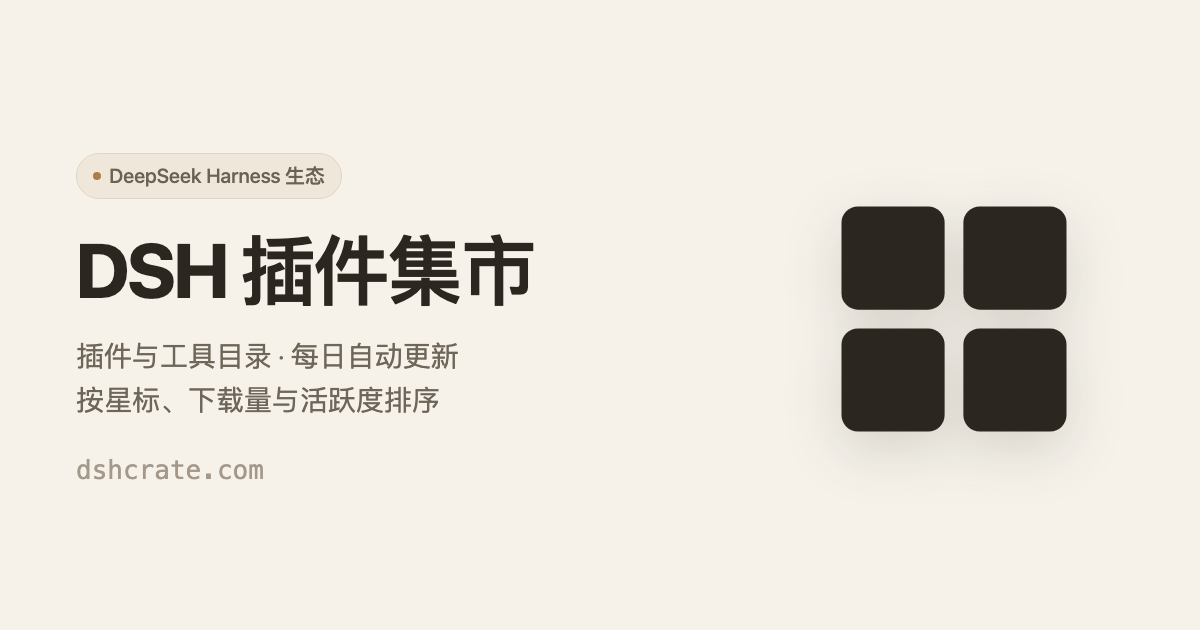
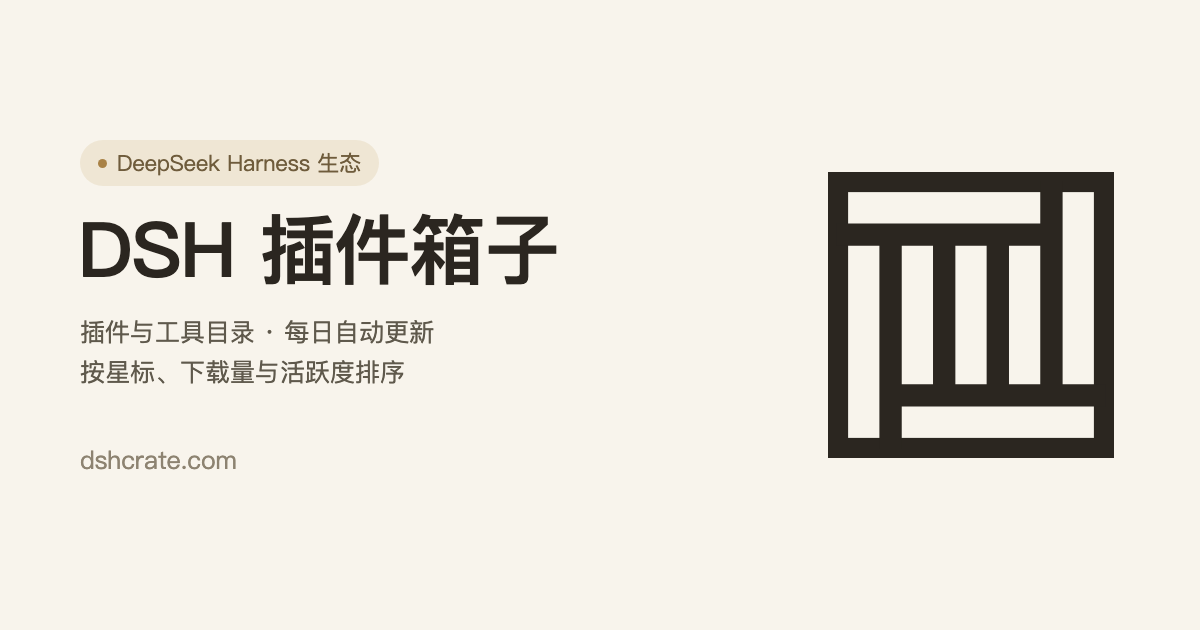
feat: 站点更名为「DSH 插件箱子」
站点配置、页面 title/meta、SEO 描述、三处中英文案与 README 全部从「插件集市」
改为「插件箱子」；og 图重绘为新名字 + 线条箱子标记，收录量改为 4 万+。

diff --git a/packages/web/index.html b/packages/web/index.html
@@ -3,21 +3,21 @@
   <head>
     <meta charset="UTF-8" />
     <meta name="viewport" content="width=device-width, initial-scale=1.0" />
-    <title>DSH 插件集市</title>
-    <meta name="description" content="DeepSeek Harness 插件集市 —— 按星标与更新活跃度排序，一页看清哪个插件值得装。" />
+    <title>DSH 插件箱子</title>
+    <meta name="description" content="DeepSeek Harness 插件箱子 —— 按星标与更新活跃度排序，一页看清哪个插件值得装。" />
     <!-- canonical 由各页 useSeo 在渲染后写入：所有路由共用同一份 HTML，静态写死会指错页面 -->
     <meta property="og:type" content="website" />
-    <meta property="og:site_name" content="DSH 插件集市" />
-    <meta property="og:title" content="DSH 插件集市 · 收录 20000+ 个 DeepSeek Harness 插件" />
+    <meta property="og:site_name" content="DSH 插件箱子" />
+    <meta property="og:title" content="DSH 插件箱子 · 收录 4 万+ 个 DeepSeek Harness 插件" />
     <meta property="og:description" content="按星标、下载量与更新活跃度排序，支持分类筛选与全文搜索，每日自动刷新。" />
     <meta property="og:url" content="https://dshcrate.com/" />
     <meta property="og:image" content="https://dshcrate.com/og.png" />
     <meta property="og:image:width" content="1200" />
     <meta property="og:image:height" content="630" />
-    <meta property="og:image:alt" content="DSH 插件集市：DeepSeek Harness 插件与工具目录" />
+    <meta property="og:image:alt" content="DSH 插件箱子：DeepSeek Harness 插件与工具目录" />
     <meta name="twitter:card" content="summary_large_image" />
-    <meta name="twitter:title" content="DSH 插件集市" />
-    <meta name="twitter:description" content="收录 20000+ 个 DeepSeek Harness 插件，按星标与活跃度排序，每日自动刷新。" />
+    <meta name="twitter:title" content="DSH 插件箱子" />
+    <meta name="twitter:description" content="收录 4 万+ 个 DeepSeek Harness 插件，按星标与活跃度排序，每日自动刷新。" />
     <meta name="twitter:image" content="https://dshcrate.com/og.png" />
     <meta name="theme-color" content="#f7f7f5" />
     <!-- 首屏先按本地偏好落一次主题与语言，深色用户不会看到白闪 -->

diff --git a/packages/web/src/lib/i18n.ts b/packages/web/src/lib/i18n.ts
@@ -56,13 +56,13 @@ const ZH = {
   "theme.system": "跟随系统",
   "lang.label": "语言",
 
-  "home.title.plugins": "把 DSH 生态的插件收进一个集市",
+  "home.title.plugins": "把 DSH 生态的插件收进一个箱子",
   "home.title.tools": "顺手的独立工具，也一起收了",
   "home.sub.plugins": "按星标与更新活跃度排序，一页看清哪个插件值得装",
   "home.sub.tools": "只收上游 README 写明安装命令、且不属于 DSH 插件的项目，命令直接取自仓库。",
-  "home.install.title": "在 DSH 里装插件市场",
+  "home.install.title": "在 DSH 里装插件箱子",
   "home.install.note": "web / tui 是 DSH 自带 profile，首次使用自动初始化",
-  "home.install.aria": "复制插件市场安装命令",
+  "home.install.aria": "复制插件箱子安装命令",
   "home.search.plugins": "搜索插件名、作者或功能关键词…",
   "home.search.tools": "搜索工具名、作者或用途关键词…",
   "home.searchAria.plugins": "搜索插件",
@@ -376,13 +376,13 @@ const EN: Record<TKey, string> = {
   "theme.system": "System",
   "lang.label": "Language",
 
-  "home.title.plugins": "Every DSH plugin, in one market",
+  "home.title.plugins": "Every DSH plugin, in one crate",
   "home.title.tools": "Handy standalone tools, all in one place",
   "home.sub.plugins": "Ranked by stars and recent activity — see which plugin is worth installing at a glance.",
   "home.sub.tools": "Only projects whose README documents an install command, outside the DSH plugin system. Commands come straight from the repo.",
-  "home.install.title": "Install the plugin market in DSH",
+  "home.install.title": "Install Plugin Crate in DSH",
   "home.install.note": "web / tui are built-in DSH profiles, initialized automatically on first use",
-  "home.install.aria": "Copy the plugin market install command",
+  "home.install.aria": "Copy the Plugin Crate install command",
   "home.search.plugins": "Search by plugin, author, or keyword…",
   "home.search.tools": "Search by tool, author, or keyword…",
   "home.searchAria.plugins": "Search plugins",

diff --git a/packages/web/src/lib/seo.ts b/packages/web/src/lib/seo.ts
@@ -77,6 +77,6 @@ export function useSeo(input: SeoInput): void {
 
 /** 首页 / 榜单等公共页的默认描述，详情页另用条目简介覆盖。 */
 export const SEO_DEFAULT_DESCRIPTION =
-  "DSH 插件集市：收录 DeepSeek Harness 插件与非 DSH 独立工具，按星标与更新活跃度排序，支持分类筛选与全文搜索，每日自动刷新。";
+  "DSH 插件箱子：收录 DeepSeek Harness 插件与非 DSH 独立工具，按星标与更新活跃度排序，支持分类筛选与全文搜索，每日自动刷新。";
 
 export const SEO_SITE_NAME = siteConfig.siteNameZh;

diff --git a/packages/web/src/pages/HomePage.tsx b/packages/web/src/pages/HomePage.tsx
@@ -37,7 +37,7 @@ import { ORIGIN, SEO_DEFAULT_DESCRIPTION, SEO_SITE_NAME, useSeo } from "../lib/s
 
 const PAGE_STEP = 60;
 
-/** 首页引导命令：把插件市场装进 DSH。不写版本号，避免站点显示过期版本。 */
+/** 首页引导命令：把插件箱子装进 DSH。不写版本号，避免站点显示过期版本。 */
 const MARKET_INSTALL_COMMAND = "dsh plugin --profile web add dsh-crate";
 
 /**

diff --git a/README.md b/README.md
@@ -1,11 +1,11 @@
-# DSH 插件集市
+# DSH 插件箱子
 
 **[dshcrate.com](https://dshcrate.com)**
 
-DeepSeek Harness（DSH）插件与工具目录，收录 20000+ 个仓库，每日自动刷新。
+DeepSeek Harness（DSH）插件与工具目录，收录 4 万+ 个仓库，每日自动刷新。
 不用再去 GitHub 一条条翻 README —— 打开就能按星标、下载量和更新活跃度看清哪个值得装。
 
-![DSH 插件集市](https://dshcrate.com/og.png)
+![DSH 插件箱子](https://dshcrate.com/og.png)
 
 ## 能帮你做什么
 
